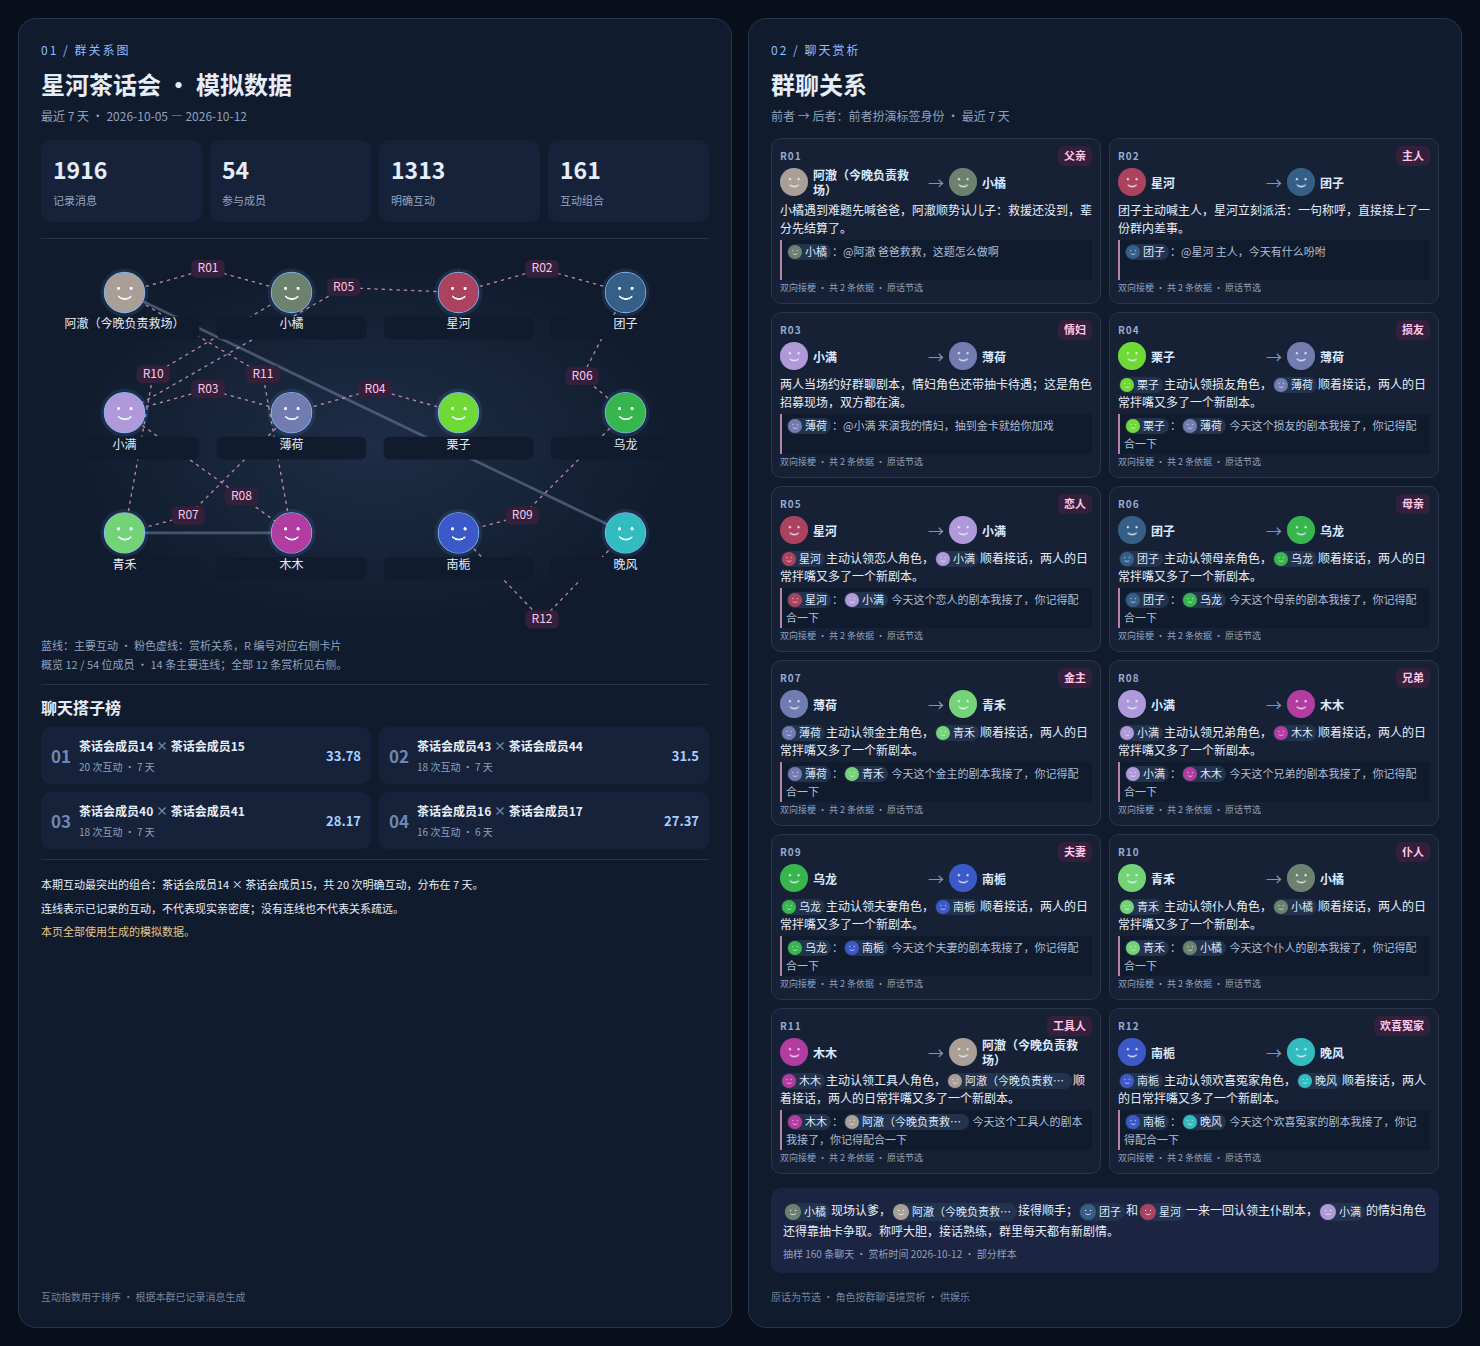
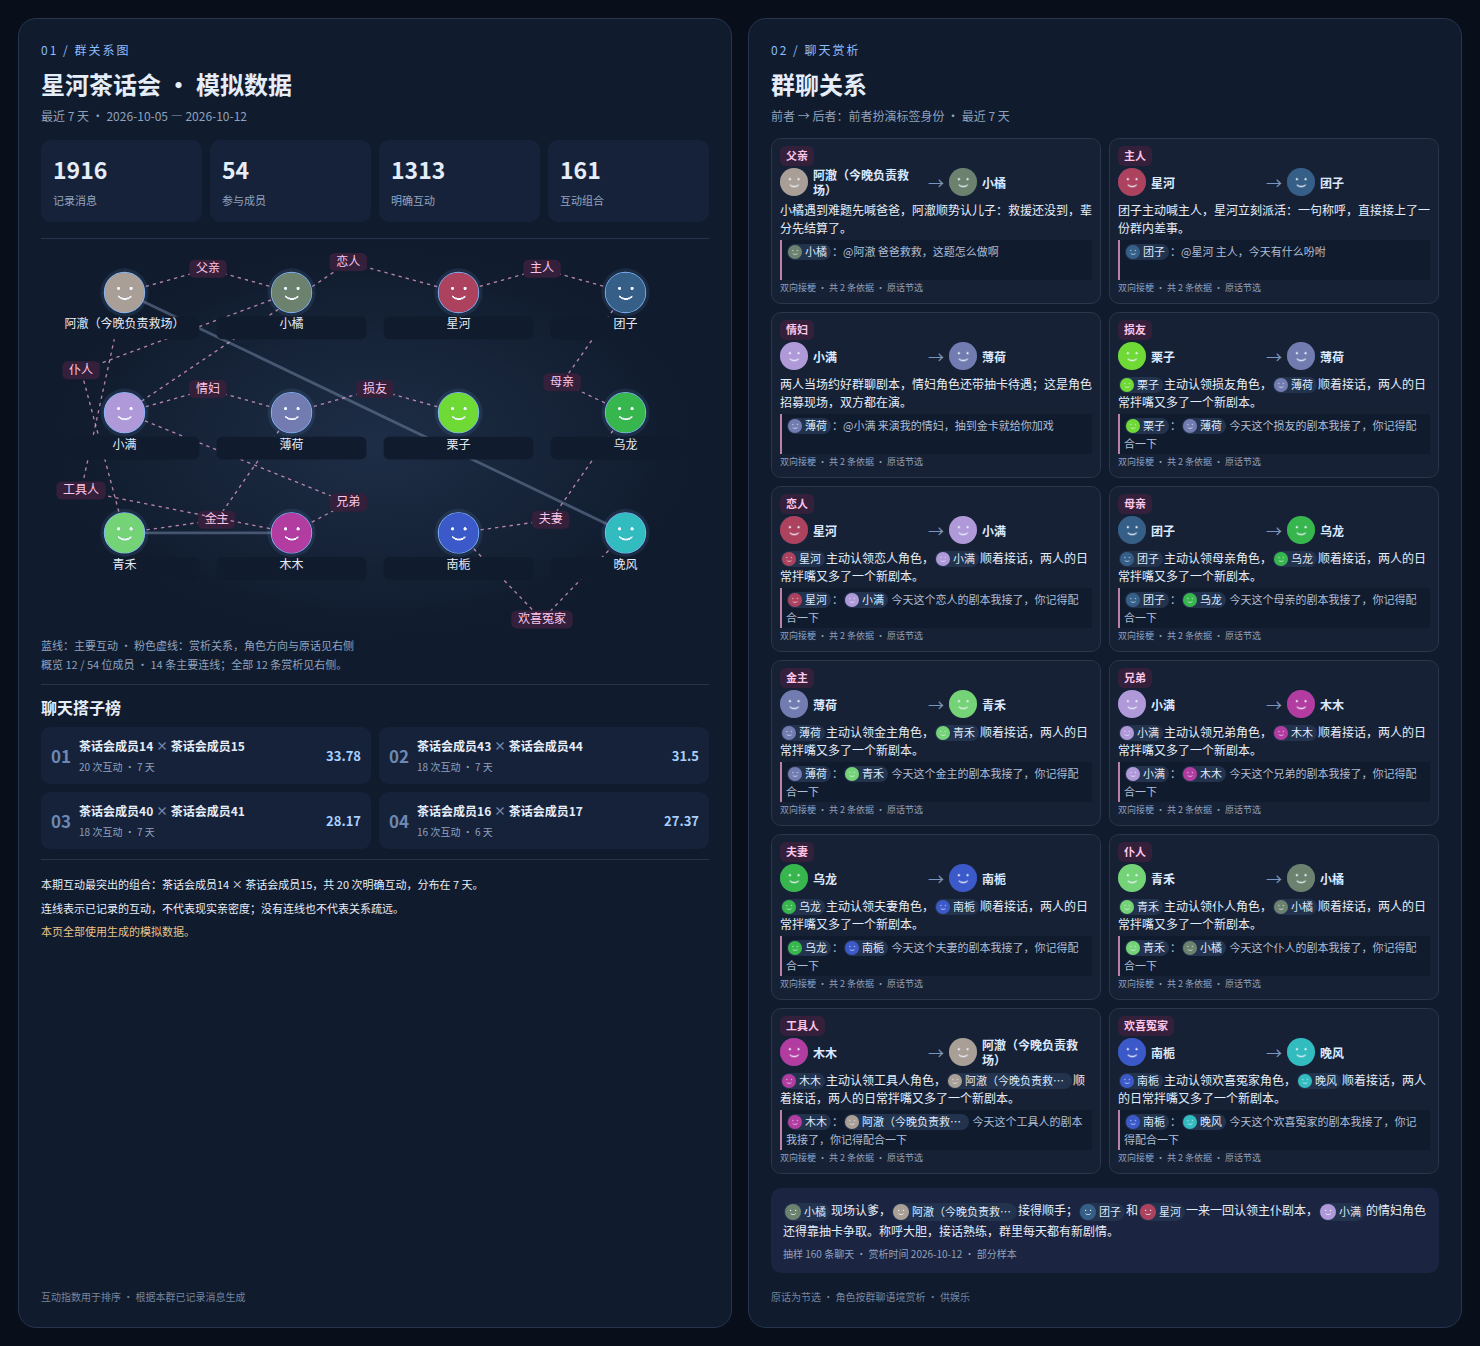
Show relationship names directly on graph links

diff --git a/render.py b/render.py
@@ -29,8 +29,7 @@ def overview(report: dict) -> dict:
     for member in report["graph"]["nodes"]:
         if member["id"] not in selected and len(selected) < 12:
             selected.append(member["id"])
-    shown_roles = [{**r, "number": i} for i, r in enumerate(roles, 1)
-                   if r["source"] in selected and r["target"] in selected][:12]
+    shown_roles = [r for r in roles if r["source"] in selected and r["target"] in selected][:12]
     used = {tuple(sorted((r["source"], r["target"]))) for r in shown_roles}
     degree = Counter(uid for pair in used for uid in pair)
     edges = []
@@ -131,25 +130,29 @@ def graph_svg(report: dict) -> str:
             continue
         x1, y1 = positions[role["source"]]
         x2, y2 = positions[role["target"]]
+        label = role["label"]
+        label_width = 20 + sum(18 if unicodedata.east_asian_width(c) in "WF" else 9 for c in label)
+        half_width = label_width / 2
         length = max(1, math.hypot(x2 - x1, y2 - y1))
         candidates = [(x1 + (x2-x1)*t - (y2-y1)/length*offset,
                        y1 + (y2-y1)*t + (x2-x1)/length*offset)
                       for t in (.5, .4, .6, .3, .7) for offset in (0, 35, -35, 65, -65, 100, -100, 130, -130)]
+        # Longer Chinese labels may need the free space between rows.
+        candidates.extend((x, y) for x in range(60, 941, 80) for y in range(20, height - 24, 18))
         def clearance(point):
-            if not 25 <= point[0] <= 975 or not 20 <= point[1] <= height - 25:
-                return -1000
-            node_gap = min(min(math.hypot(point[0]-p[0], point[1]-p[1]) - 40,
-                               math.hypot(max(0, abs(point[0]-p[0])-110), max(0, abs(point[1]-(p[1]+65))-28))) for p in positions.values())
-            label_gap = min((math.hypot(point[0]-p[0], (point[1]-p[1])*2) for p in label_positions), default=1000)
-            overlaps = sum(abs(point[0]-p[0]) < 62 and abs(point[1]-p[1]) < 32 for p in label_positions)
+            if not half_width + 8 <= point[0] <= 992 - half_width or not 20 <= point[1] <= height - 25:
+                return -1e9
+            node_gap = min(min(math.hypot(max(0, abs(point[0]-p[0])-half_width), max(0, abs(point[1]-p[1])-14)) - 40,
+                               math.hypot(max(0, abs(point[0]-p[0])-112-half_width), max(0, abs(point[1]-(p[1]+65))-42))) for p in positions.values())
+            label_gap = min((math.hypot(max(0, abs(point[0]-p[0])-half_width-p[2]), max(0, abs(point[1]-p[1])-28)) for p in label_positions), default=1000)
+            overlaps = sum(abs(point[0]-p[0]) < half_width + p[2] + 12 and abs(point[1]-p[1]) < 32 for p in label_positions)
             distance = math.hypot(point[0]-(x1+x2)/2, point[1]-(y1+y2)/2)
-            return min(node_gap, 80) + min(label_gap, 100) - overlaps * 10000 - (10000 if node_gap < 22 else 0) - distance * .08
+            return min(node_gap, 80) + min(label_gap, 100) - overlaps * 10000 - (10000 if node_gap < 4 else 0) - distance * .08
         x, y = max(candidates, key=clearance)
-        label_positions.append((x, y))
-        label = f'R{role["number"]:02d}'
+        label_positions.append((x, y, half_width))
         parts.append(f'<polyline points="{x1},{y1} {x},{y} {x2},{y2}" fill="none" stroke="#eea5d3" stroke-opacity=".75" stroke-width="2" stroke-dasharray="5 6"/>'
-                     f'<rect x="{x-25}" y="{y-14}" width="50" height="27" rx="8" fill="#34203b"/>'
-                     f'<text x="{x}" y="{y+5}" text-anchor="middle" fill="#ffc5e9" font-size="18">{label}</text>')
+                     f'<rect x="{x-half_width}" y="{y-14}" width="{label_width}" height="27" rx="8" fill="#34203b"/>'
+                     f'<text x="{x}" y="{y+5}" text-anchor="middle" fill="#ffc5e9" font-size="18">{esc(label)}</text>')
     for u in nodes:
         x, y = positions[u["id"]]
         radius = 30
@@ -211,9 +214,9 @@ def image_html(report: dict) -> str:
     notes = "".join(f'<p>{esc(n)}</p>' for n in report["notes"])
     context = report.get("context_analysis", {})
     roles = []
-    for i, r in enumerate(context.get("relationships", []), 1):
+    for r in context.get("relationships", []):
         quotes = "".join(f'<blockquote>{person(report, q["sender"], names, tiny=True)}：{rich_text(q["text"], report, names)}</blockquote>' for q in r["evidence"][:1])
-        roles.append(f'<article class="role"><div class="rolehead"><b class="reference">R{i:02d}</b><b class="tag">{esc(r["label"])}</b></div><div class="actors">{person(report, r["source"], names)}<span class="arrow">→</span>{person(report, r["target"], names)}</div><p>{rich_text(r["reason"], report, names)}</p>{quotes}<small>{esc(r["basis"])} · 共 {len(r["evidence"])} 条依据 · 原话节选</small></article>')
+        roles.append(f'<article class="role"><div class="rolehead"><b class="tag">{esc(r["label"])}</b></div><div class="actors">{person(report, r["source"], names)}<span class="arrow">→</span>{person(report, r["target"], names)}</div><p>{rich_text(r["reason"], report, names)}</p>{quotes}<small>{esc(r["basis"])} · 共 {len(r["evidence"])} 条依据 · 原话节选</small></article>')
     context_info = f'抽样 {context.get("sampled", 0)} 条聊天' if "sampled" in context else ""
     if context.get("generated_at"):
         context_info += " · 赏析时间 " + date_label(context["generated_at"])
@@ -240,7 +243,7 @@ def image_html(report: dict) -> str:
     .actors{{height:30px;margin:2px 0}}.person-name{{line-height:1.25}}.role p{{margin:2px 0}}.role blockquote{{height:40px;max-height:40px;padding:2px 4px;margin:1px 0;line-height:18px}}.role p .tiny,.role blockquote .tiny{{height:16px;vertical-align:-3px}}.role p .tiny img,.role blockquote .tiny img,.role p .tiny .face-fallback,.role blockquote .tiny .face-fallback{{width:14px;height:14px}}.dense .actors{{margin:2px 0}}.dense .role p{{height:34px;line-height:17px}}.dense .role blockquote{{height:36px;max-height:36px;line-height:16px}}
     </style><body><section class="sheet"><div class="eyebrow">01 / 群关系图</div><h1>{esc(report['channel_name'])}</h1><div class="sub">最近 {report['days']} 天 · {date_label(m['start'])} — {date_label(m['end'] - 1)}</div>
     <div class="stats">{''.join(f'<div class="stat"><b>{value}</b><span>{label}</span></div>' for label, value in [('记录消息',m['messages']),('参与成员',m['members']),('明确互动',m['interactions']),('互动组合',m['pairs'])])}</div>
-    <section class="panel">{graph_svg(report)}<div class="legend">蓝线：主要互动 · 粉色虚线：赏析关系，R 编号对应右侧卡片<br>概览 {len(graph['nodes'])} / {m['members']} 位成员 · {len(graph['edges']) + len(graph['roles'])} 条主要连线；全部 {len(roles)} 条赏析见右侧。</div></section>
+    <section class="panel">{graph_svg(report)}<div class="legend">蓝线：主要互动 · 粉色虚线：赏析关系，角色方向与原话见右侧<br>概览 {len(graph['nodes'])} / {m['members']} 位成员 · {len(graph['edges']) + len(graph['roles'])} 条主要连线；全部 {len(roles)} 条赏析见右侧。</div></section>
     <section class="panel"><h2>聊天搭子榜</h2><div class="rankings">{rankings or '<p>还没有明确互动记录。</p>'}</div></section><section class="panel observations">{notes}</section>
     <footer>互动指数用于排序 · 根据本群已记录消息生成</footer></section>
     <section class="sheet"><div class="eyebrow">02 / 聊天赏析</div><h1>群聊关系</h1><div class="sub">前者 → 后者：前者扮演标签身份 · 最近 {report['days']} 天</div>{theater}

diff --git a/plugin.py b/plugin.py
@@ -16,7 +16,7 @@ from .render import text_report
 from .service import RelationsService, extract
 
 plugin = NekroPlugin(
-    name="群关系观察", module_name="group_relations", author="JiaDodo", version="0.3.0",
+    name="群关系观察", module_name="group_relations", author="JiaDodo", version="0.3.1",
     description="根据本群聊天赏析亲属、损友、CP、情妇、主仆等娱乐关系，附原话依据和图片报告；直接使用原生 WebUI。",
     url="https://github.com/JiaDodo/nekro-plugin-group-relations", support_adapter=["onebot_v11"],
     allow_sleep=True, sleep_brief="分析本群互动关系、查询我的聊天搭子、生成群关系图和关系周报。",
